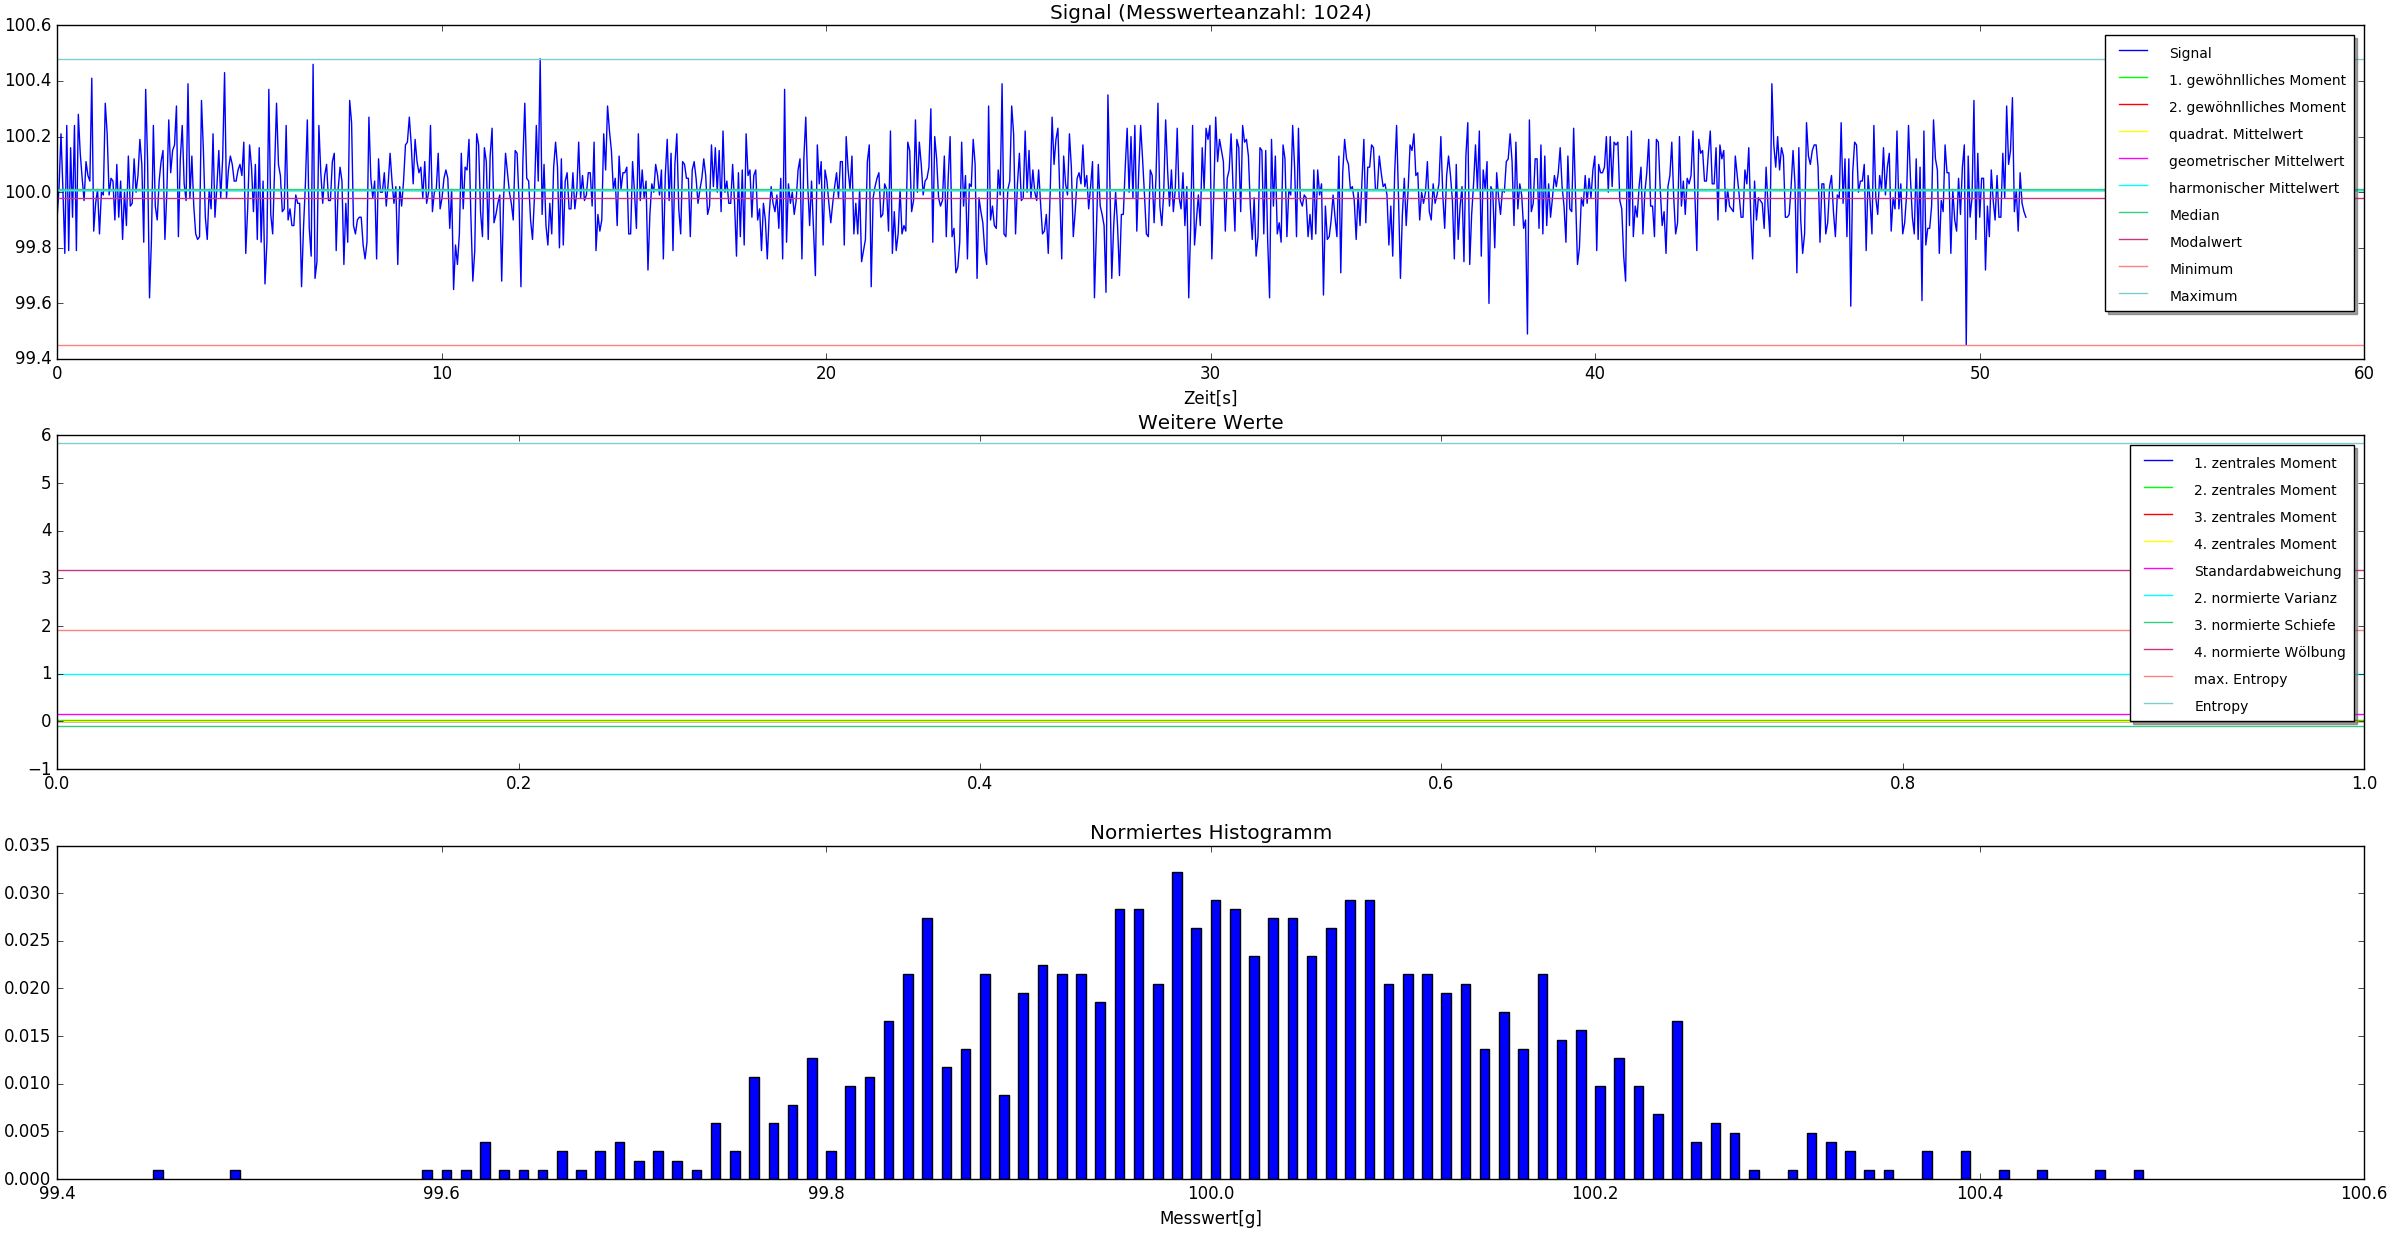
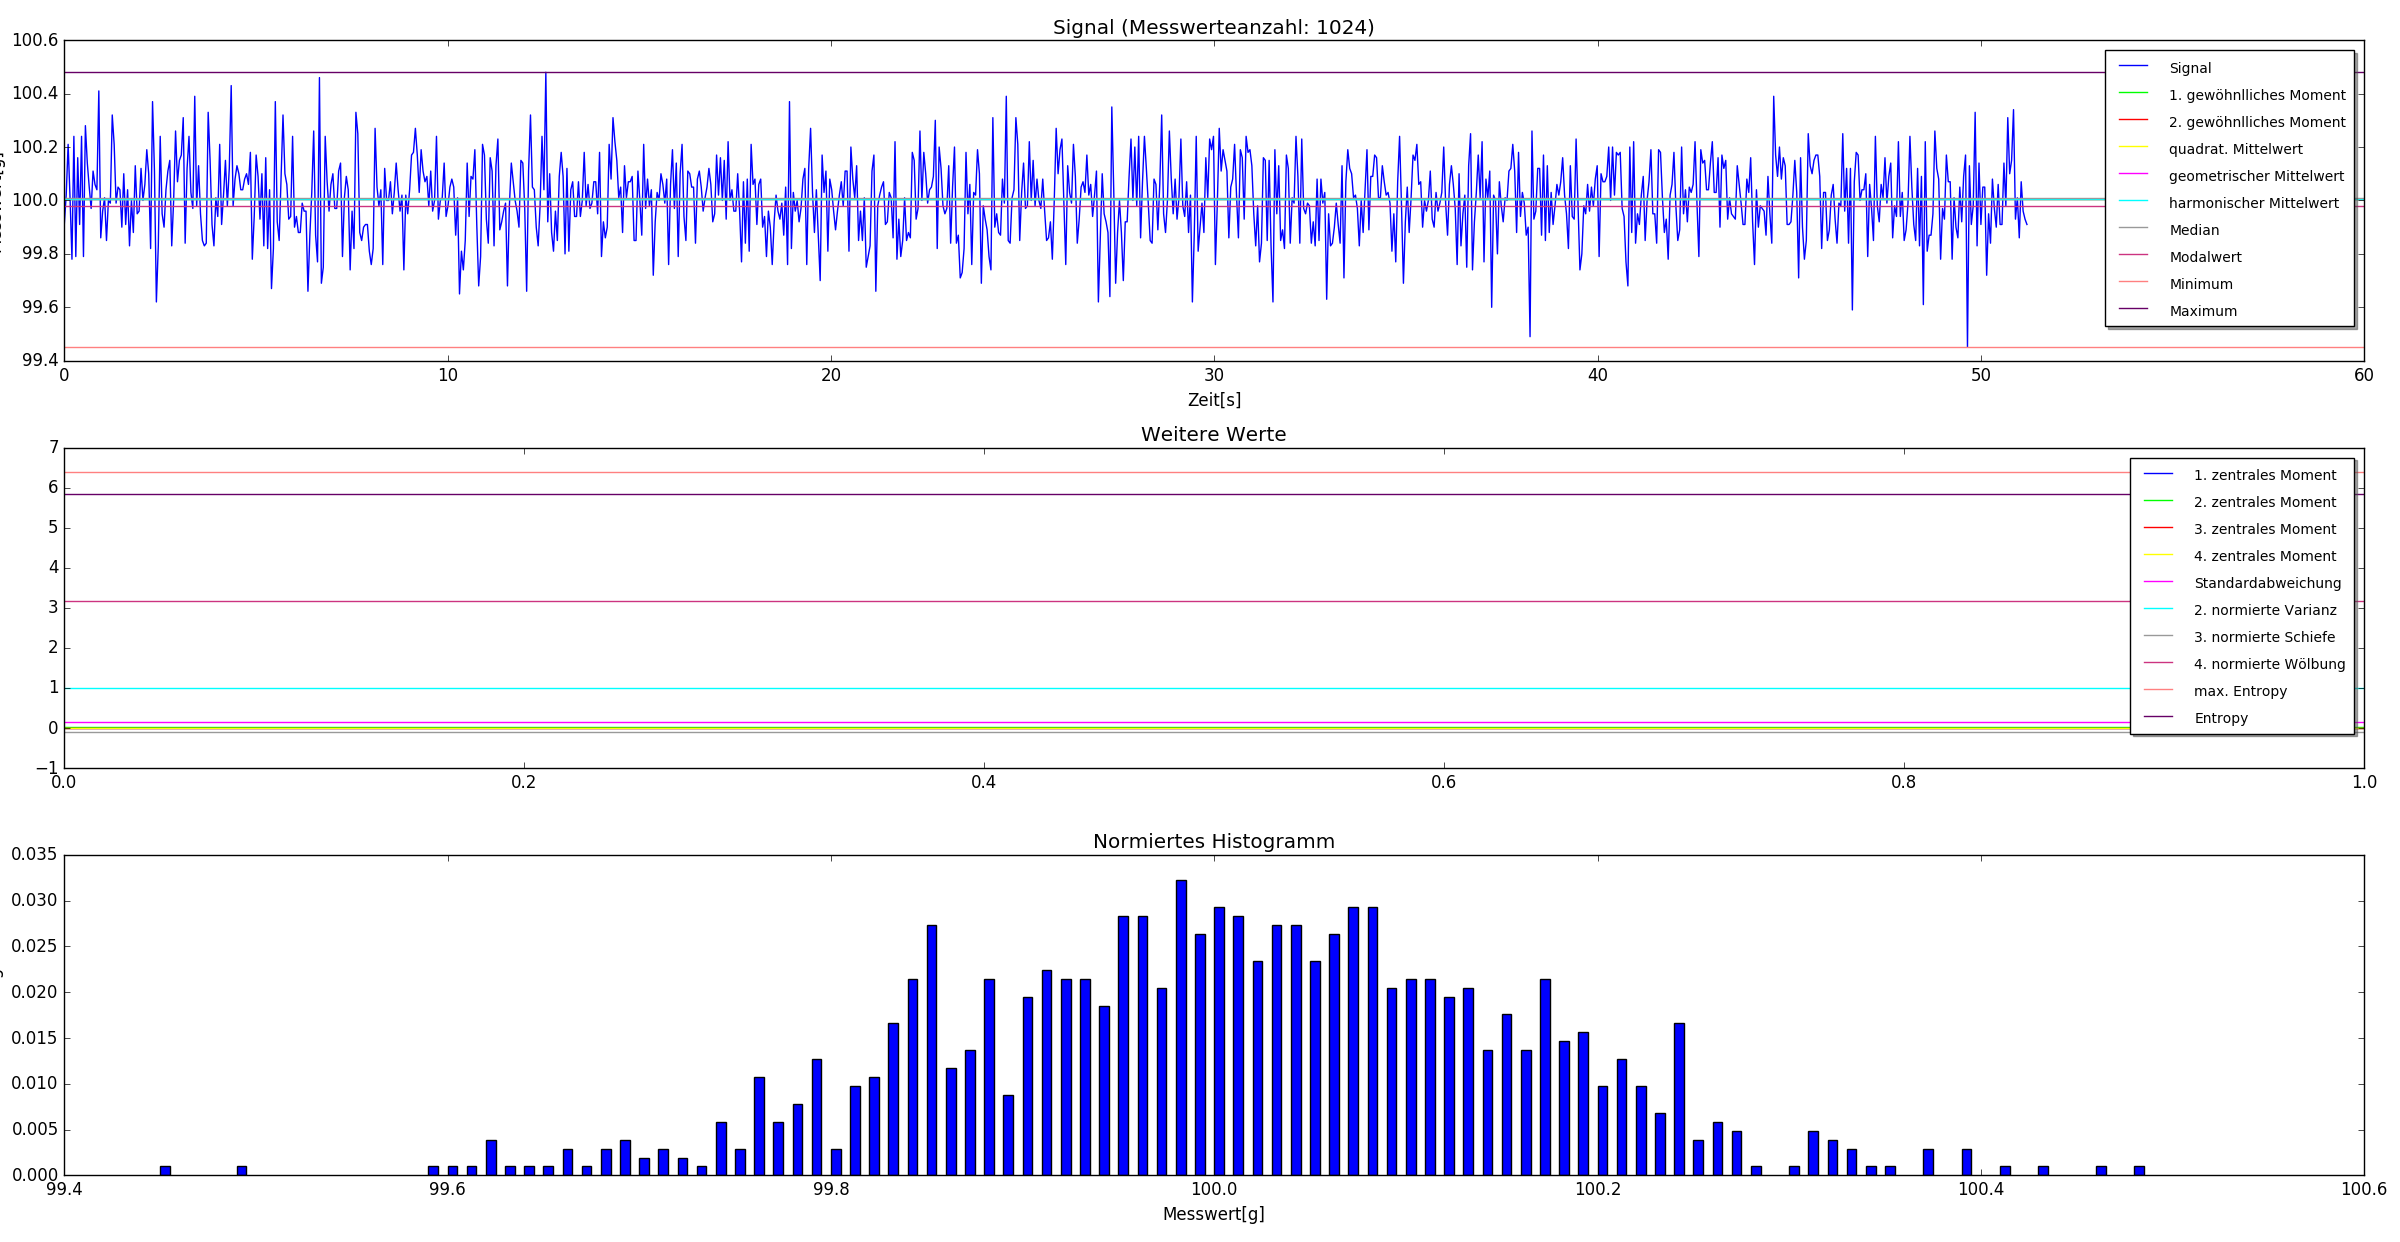
finished 9

Changed region(s): [[0.0, 0.0, 1.0, 1.0], [0.0625, 0.9179, 0.125, 0.9485], [0.9688, 0.9485, 1.0, 0.9791]]

diff --git a/python/a9.py b/python/a9.py
@@ -16,10 +16,10 @@ def plot_all(sig):
     ax.axhline(y=sig.square_mean(), label="quadrat. Mittelwert", color=(1.0, 1.0, 0, 1.0))
     ax.axhline(y=sig.geometric_mean(), label="geometrischer Mittelwert", color=(1.0, 0, 1.0, 1.0))
     ax.axhline(y=sig.harmonic_mean(), label="harmonischer Mittelwert", color=(0, 1.0, 1.0, 1.0))
-    ax.axhline(y=sig.median(), label="Median", color=(0.2, 0.8, 0.5, 1.0))
+    ax.axhline(y=sig.median(), label="Median", color=(0.6, 0.6, 0.6, 1.0))
     ax.axhline(y=sig.modal_value(), label="Modalwert", color=(0.8, 0.2, 0.5, 1.0))
     ax.axhline(y=sig.min_value(), label="Minimum", color=(1.0, 0.5, 0.5, 1.0))
-    ax.axhline(y=sig.max_value(), label="Maximum", color=(0.5, 0.8, 0.8, 1.0))
+    ax.axhline(y=sig.max_value(), label="Maximum", color=(0.4, 0.0, 0.4, 1.0))
     legend = ax.legend(loc='upper right', shadow=True)
     # Set the fontsize
     for label in legend.get_texts():
@@ -33,10 +33,10 @@ def plot_all(sig):
     ax.axhline(y=sig.central_moment(k=4), label="4. zentrales Moment", color=(1.0, 1.0, 0, 1.0))
     ax.axhline(y=sig.standard_deviation(), label="Standardabweichung", color=(1.0, 0, 1.0, 1.0))
     ax.axhline(y=sig.central_moment(k=2, normed=True), label="2. normierte Varianz", color=(0, 1.0, 1.0, 1.0))
-    ax.axhline(y=sig.central_moment(k=3, normed=True), label="3. normierte Schiefe", color=(0.2, 0.8, 0.5, 1.0))
+    ax.axhline(y=sig.central_moment(k=3, normed=True), label="3. normierte Schiefe", color=(0.6, 0.6, 0.6, 1.0))
     ax.axhline(y=sig.central_moment(k=4, normed=True), label="4. normierte Wölbung", color=(0.8, 0.2, 0.5, 1.0))
     ax.axhline(y=sig.max_entropy(), label="max. Entropy", color=(1.0, 0.5, 0.5, 1.0))
-    ax.axhline(y=sig.entropy(), label="Entropy", color=(0.5, 0.8, 0.8, 1.0))
+    ax.axhline(y=sig.entropy(), label="Entropy", color=(0.4, 0.0, 0.4, 1.0))
     legend = ax.legend(loc='upper right', shadow=True)
     # Set the fontsize
     for label in legend.get_texts():
@@ -53,4 +53,6 @@ def plot_all(sig):
 if __name__ == "__main__":
     sig = Signal()
     sig.load_from_file("data/waage128.txt")
+    print(sig.entropy())
+    print(sig.max_entropy())
     plot_all(sig)

diff --git a/Signalstatistik/Signalstatistik7_8_9_10_11_12.tex b/Signalstatistik/Signalstatistik7_8_9_10_11_12.tex
@@ -10,6 +10,10 @@
   \usepackage{fancyhdr}    % Eigene Kopfzeilen
   \usepackage{graphicx}    % Zum Einbinden von Grafiken
   % Einbinden einer eps-Grafik geht so: includegraphics{path}
+  \usepackage{wrapfig}
+  \usepackage{lscape}
+  \usepackage{rotating}
+  \usepackage{epstopdf}
   
   % Seitenraender
   \addtolength{\voffset}{-2cm}
@@ -75,5 +79,20 @@
       \includegraphics[width=1.0\textwidth]{sv0_7.png}
       \caption{Darstellung der gegebenen Dichtefunktion und einiger Kenngrößen}
   \end{figure}
+  \newpage
+  "Ubungsaufgabe 9: \newline
+  \begin{sidewaysfigure}
+      \includegraphics[width=1.0\textwidth]{a9_128.png}
+      \caption{Messreihe mit 128 Messwerten}
+  \end{sidewaysfigure}
+  \begin{sidewaysfigure}
+    \includegraphics[width=1.0\textwidth]{a9_1024.png}
+    \caption{Messreihe mit 1024 Messwerten}
+  \end{sidewaysfigure}
+  Zur Messreihe mit 1024 Messwerten: \newline
+  Mittelungleichung von Cauchy erfüllt: ja \newline
+  Normalverteilt: ja \newline
+  Interpretation Entropie: Der mittlere Informationsgehalt (Entropie) liegt mit $\approx 5.9$ relativ nah am maximalen Informationsgehalt $\approx 6.4$ (max. Entropie).
+  Damit ist der Informationsgehalt eines Messwertes relativ groß.
   \end{document}
   

diff --git a/python/sig.py b/python/sig.py
@@ -91,5 +91,5 @@ class Signal:
         return np.sum(self.p * np.log2(np.reciprocal(self.p)))
 
     def max_entropy(self):
-        return np.log10(len(self.x))
+        return np.log2(len(self.x))
     
